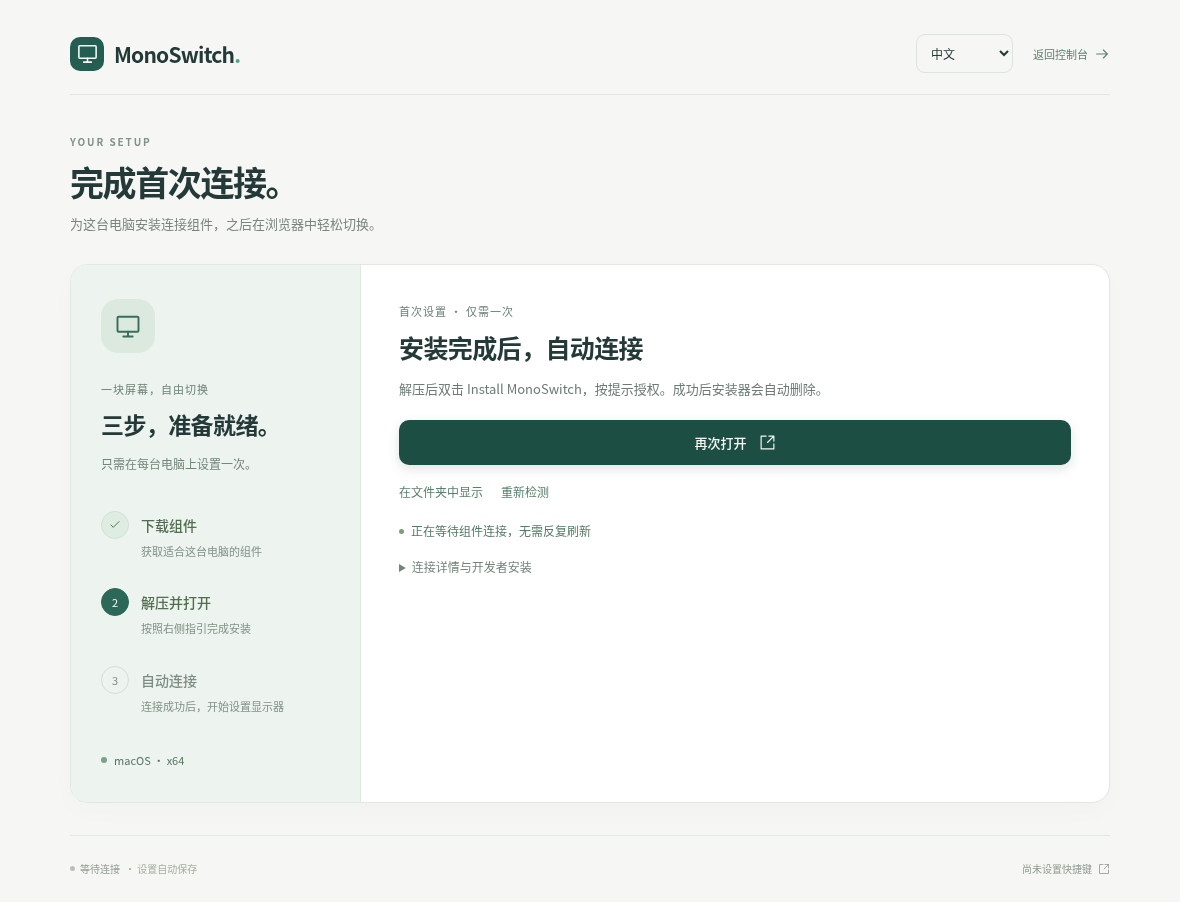
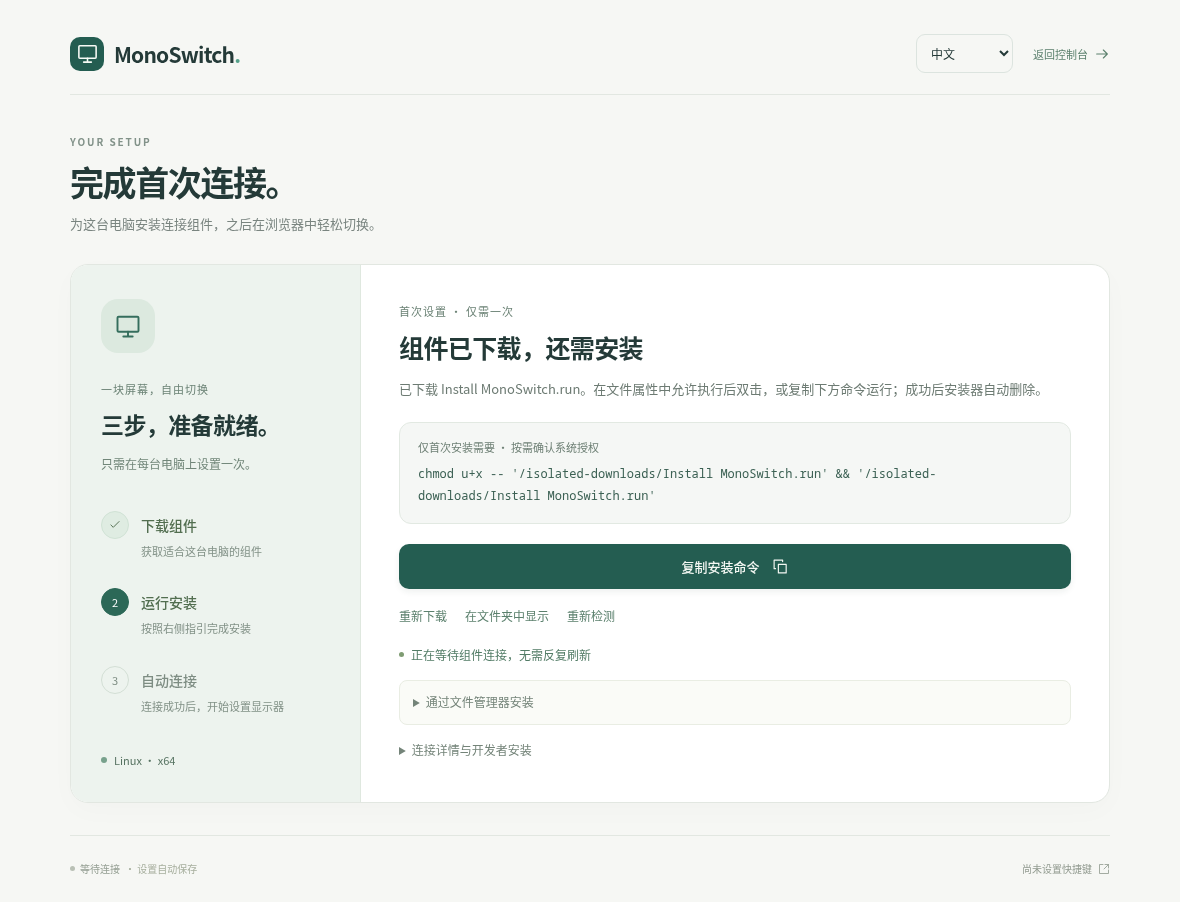
fix: keep component downloads accessible for installed users

diff --git a/extension/src/App.vue b/extension/src/App.vue
@@ -173,7 +173,6 @@ async function refresh(): Promise<void> {
       return
     }
     status.value = response.data
-    if (upgrading.value && response.data.systemSetup) upgrading.value = false
     if (waitingForInstall.value && !upgrading.value) notice.value = '本地组件已连接，可以继续设置显示器。'
     if (!upgrading.value) stopPolling()
     if (!settings.value.displayId && response.data.displays.length === 1)
@@ -214,7 +213,8 @@ async function repairSystem(): Promise<void> {
 function checkInstallation(): void {
   stopPolling()
   installTimedOut.value = false
-  if (status.value && !upgrading.value) return
+  if (upgrading.value) { void refresh(); return }
+  if (status.value) return
   waitingForInstall.value = true
   void refresh()
   const deadline = Date.now() + 600_000
@@ -529,8 +529,9 @@ onUnmounted(() => {
           </span>
         </aside>
         <div class="setup-content">
-          <p class="section-kicker">{{ t("首次设置 · 仅需一次") }}</p>
+          <p class="section-kicker">{{ t(upgrading ? "更新或重新安装组件" : "首次设置 · 仅需一次") }}</p>
           <h2>{{ t(setupTitle) }}</h2>
+          <p v-if="upgrading">{{ t("运行安装器即可更新，无需删除旧组件。完成后返回设置，原有配置会保留。") }}</p>
           <p v-if="linuxInstall && installCommand">{{ t("已下载 Install MonoSwitch.run。在文件属性中允许执行后双击，或复制下方命令运行；成功后安装器自动删除。") }}</p>
           <p v-else-if="linuxInstall">{{ t("在文件夹中找到安装器，在文件属性中允许执行，再双击运行。") }}</p>
           <p v-else-if="installerOpened && archiveInstaller">{{ t("解压后双击 Install MonoSwitch，按提示授权。成功后安装器会自动删除。") }}</p>
@@ -574,6 +575,8 @@ onUnmounted(() => {
             }}
           </p>
           <div class="install-actions">
+            <button v-if="installer && downloadReady" class="text-button" @click="installerDownload?.download(true)">{{ t("重新下载") }}</button>
+            <button v-if="upgrading" class="text-button" @click="upgrading = false; stopPolling(); refresh()">{{ t("返回设置") }}</button>
             <button v-if="downloadReady && (!linuxInstall || installCommand)" class="text-button" @click="installerDownload?.show()">{{ t("在文件夹中显示") }}</button>
             <button class="text-button" :disabled="refreshing" @click="checkInstallation">
               {{ t(refreshing ? '检测中…' : downloadState.phase === 'idle' ? '已安装，重新检测' : '重新检测') }}
@@ -931,6 +934,13 @@ onUnmounted(() => {
         <SharingPanel :host="status" :settings="settings" :compact="!settingsPage"
           @identity="sharingIdentity = $event" @running="sharingRunning = $event"
           @upgrade="upgrading = true; checkInstallation()" />
+        <section v-if="settingsPage && !demoMode" class="panel">
+          <div class="export-heading">
+            <h3>{{ t("本地组件") }}</h3>
+            <button class="text-button" @click="upgrading = true; checkInstallation()">{{ t("重新下载组件") }}</button>
+          </div>
+          <p class="privacy-note">{{ t("更新或重新安装时使用，已有显示器和配对配置会保留。") }}</p>
+        </section>
         <section v-if="settingsPage" class="setup-notes">
           <div>
             <Icon name="info" :size="19" />

diff --git a/extension/src/locales/en.ts b/extension/src/locales/en.ts
@@ -1,4 +1,11 @@
 export const english: Record<string, string> = {
+  "重新下载组件": "Download component again",
+  "本地组件": "Local component",
+  "返回设置": "Back to settings",
+  "更新或重新安装组件": "Update or reinstall component",
+  "运行安装器即可更新，无需删除旧组件。完成后返回设置，原有配置会保留。": "Run the installer to update without removing the existing component. Return to settings when finished; your configuration is preserved.",
+  "更新或重新安装时使用，已有显示器和配对配置会保留。": "Use this to update or reinstall. Your display and pairing settings are preserved.",
+
   "请求格式不正确或操作不受支持。": "Invalid request format or unsupported action.",
   "键鼠共享程序已退出（": "The input sharing process exited (",
   "），请检查权限和连接。": "). Check permissions and the connection.",

diff --git a/extension/src/installer-download.ts b/extension/src/installer-download.ts
@@ -80,8 +80,8 @@ export function createInstallerDownload(installer: Installer, api = chrome) {
     }
   }
 
-  async function download(): Promise<void> {
-    if (disposed || state.value.phase === 'downloading' || state.value.phase === 'ready') return
+  async function download(force = false): Promise<void> {
+    if (disposed || state.value.phase === 'downloading' || (state.value.phase === 'ready' && !force)) return
     if (installer.extensionId !== api.runtime.id) {
       state.value.error = '安装器与当前扩展不匹配，请重新加载扩展。'
       return
